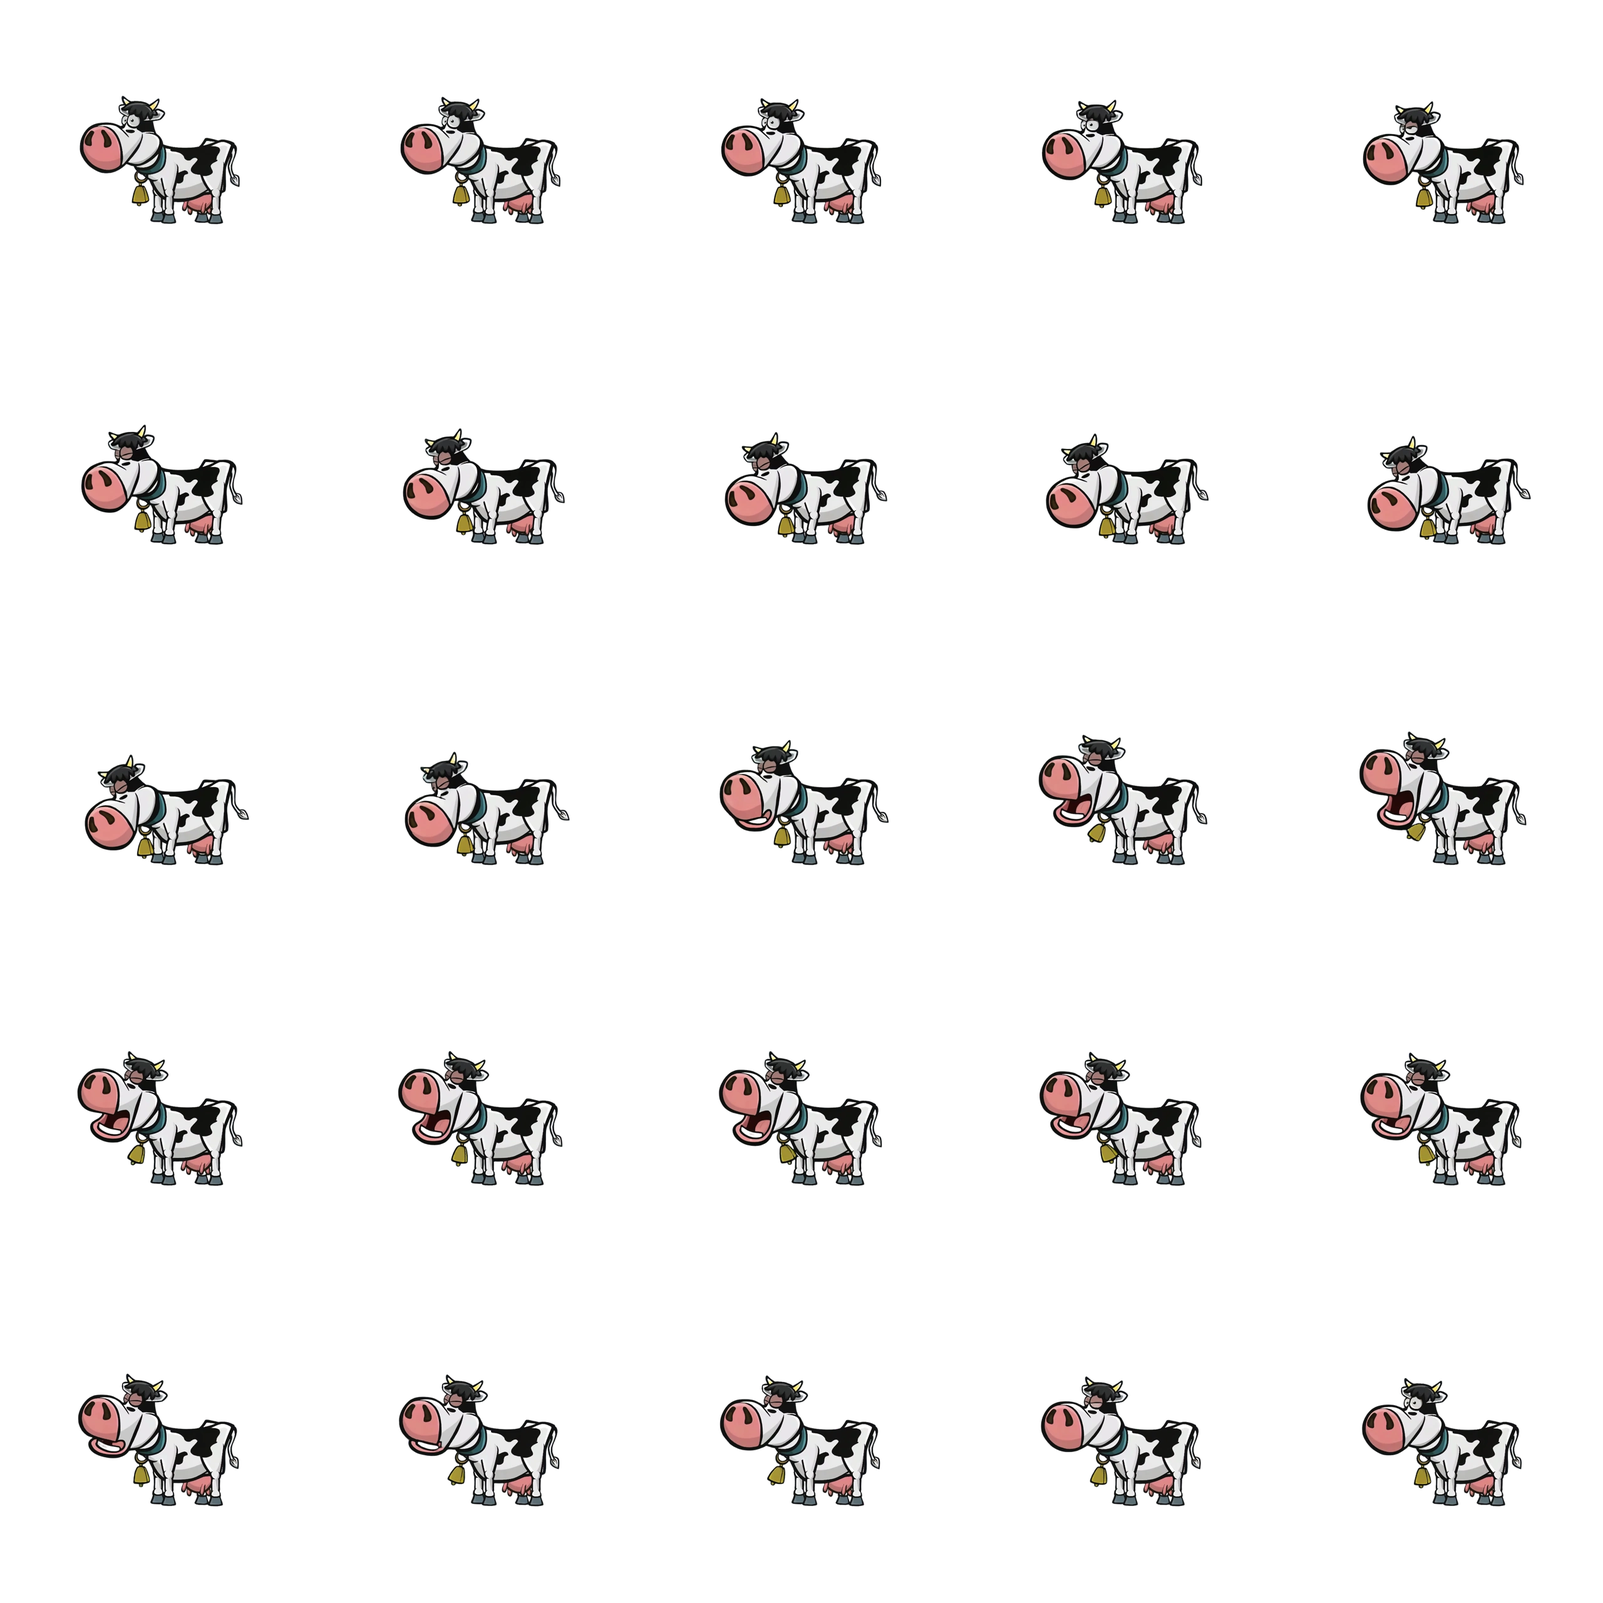
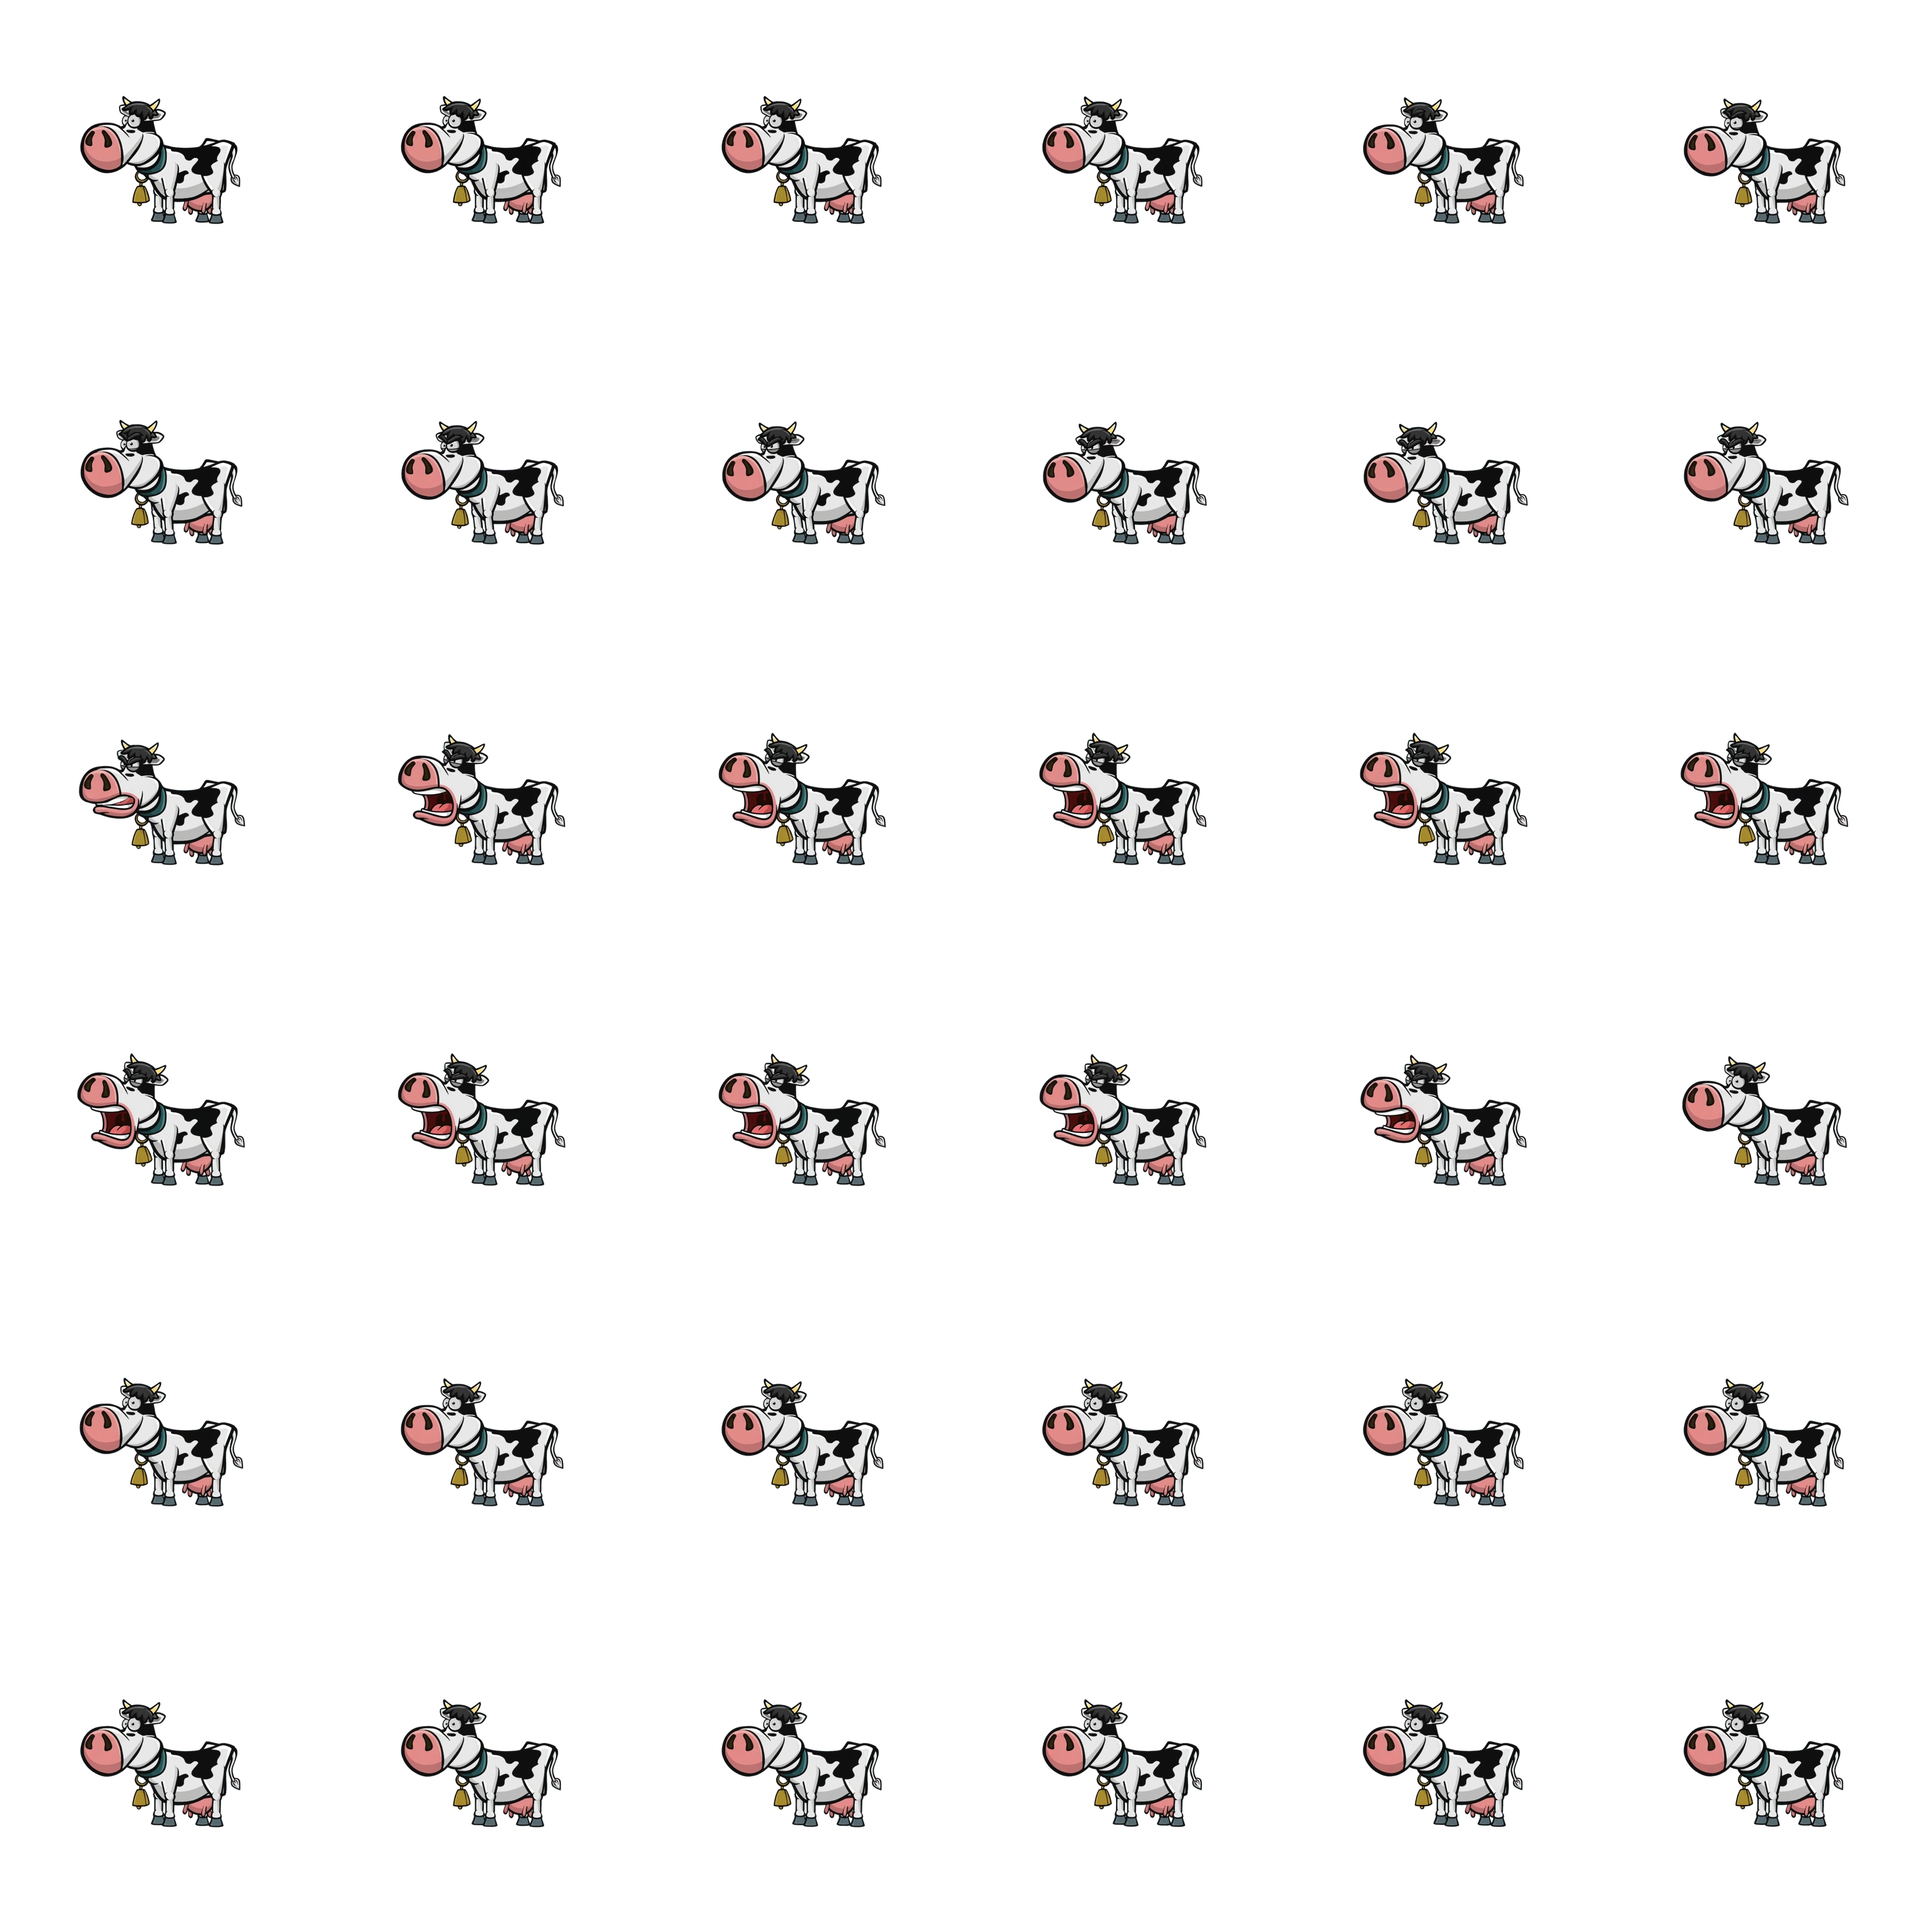
Regenerate cow angry and brown-bull doubtful on Hydra
Both use new head-still prompts where only the face moves, on a
symmetric timeline.
- cow angry: the brows drop into a V and the snout opens into a bellow
  with the head held at reference height. The old clip tipped the head
  up and read as worth a second look.
- brown-bull doubtful: a sceptical half-lidded side-eye with the head
  perfectly still. The first Hydra pass went wide-eyed and read as
  surprised.

The old review notes are removed. The prompts land in the manifest with
the next audit batch.

diff --git a/src/phaser/animals/emotionSheets.generated.ts b/src/phaser/animals/emotionSheets.generated.ts
@@ -40,20 +40,17 @@ export const EMOTION_SHEETS: Partial<
       file: 'brown-bull-doubtful.png',
       frameWidth: 512,
       frameHeight: 512,
-      frameCount: 25,
-      frameRate: 13,
-      scale: 3.1963,
-      originX: 0.4852,
-      originY: 0.6973,
+      frameCount: 36,
+      frameRate: 12,
+      scale: 3.3204,
+      originX: 0.5048,
+      originY: 0.6992,
       quality: {
-        loopPop: 0.18,
-        heightSwing: 5.6,
-        driftX: 4.8,
+        loopPop: 0.12,
+        heightSwing: 1.5,
+        driftX: 3.3,
         warnings: [],
       },
-      reviewNotes: [
-        'Accepted on human review after two failed attempts (Blitz, then Hydra, both reared the head far back) and two drifting image edits. This fresh attempt holds the head for most of the loop, but frames 11-14 still dip the head and swing the horns.',
-      ],
     },
     sneaky: {
       file: 'brown-bull-sneaky.png',
@@ -191,20 +188,17 @@ export const EMOTION_SHEETS: Partial<
       file: 'cow-angry.png',
       frameWidth: 512,
       frameHeight: 512,
-      frameCount: 25,
-      frameRate: 13,
-      scale: 1.7558,
-      originX: 0.49,
-      originY: 0.7012,
+      frameCount: 36,
+      frameRate: 12,
+      scale: 1.7887,
+      originX: 0.4855,
+      originY: 0.6992,
       quality: {
-        loopPop: 0.37,
-        heightSwing: 19,
-        driftX: 6.8,
+        loopPop: 0.36,
+        heightSwing: 7.5,
+        driftX: 2.3,
         warnings: [],
       },
-      reviewNotes: [
-        'First attempt read as sulking rather than angry despite clean numbers; this retry bellows convincingly but is still worth a second look in game.',
-      ],
     },
     approving: {
       file: 'cow-thinking.png',
